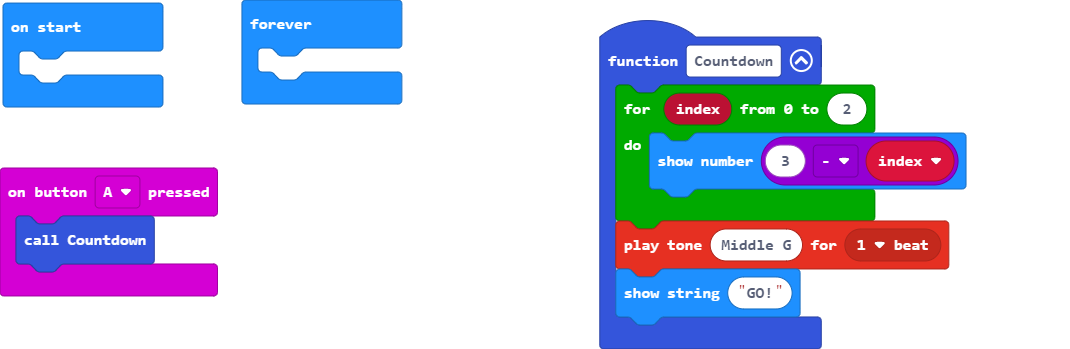
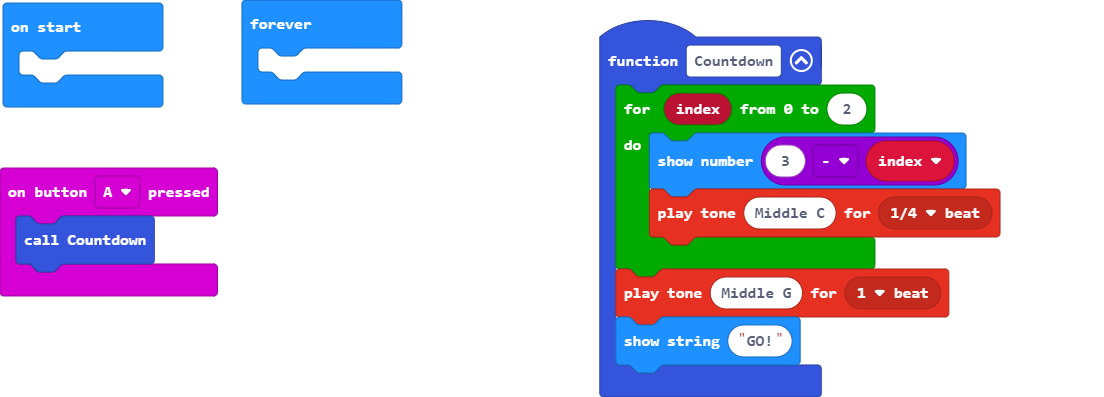
Update main.blocks, main.ts

diff --git a/main.ts b/main.ts
@@ -4,6 +4,7 @@ input.onButtonPressed(Button.A, function () {
 function Countdown () {
     for (let index = 0; index <= 2; index++) {
         basic.showNumber(3 - index)
+        music.playTone(262, music.beat(BeatFraction.Quarter))
     }
     music.playTone(392, music.beat(BeatFraction.Whole))
     basic.showString("GO!")
